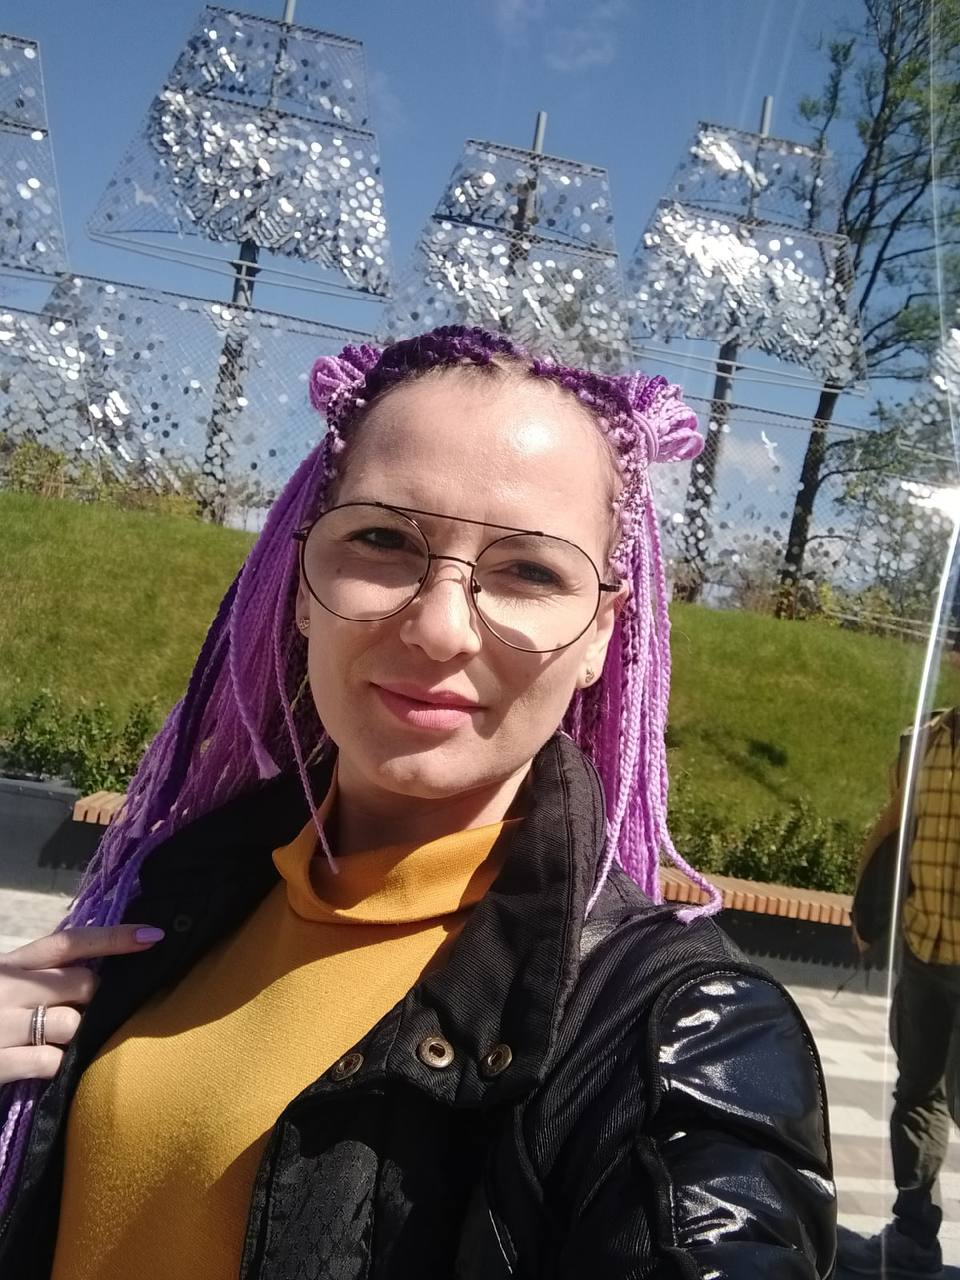
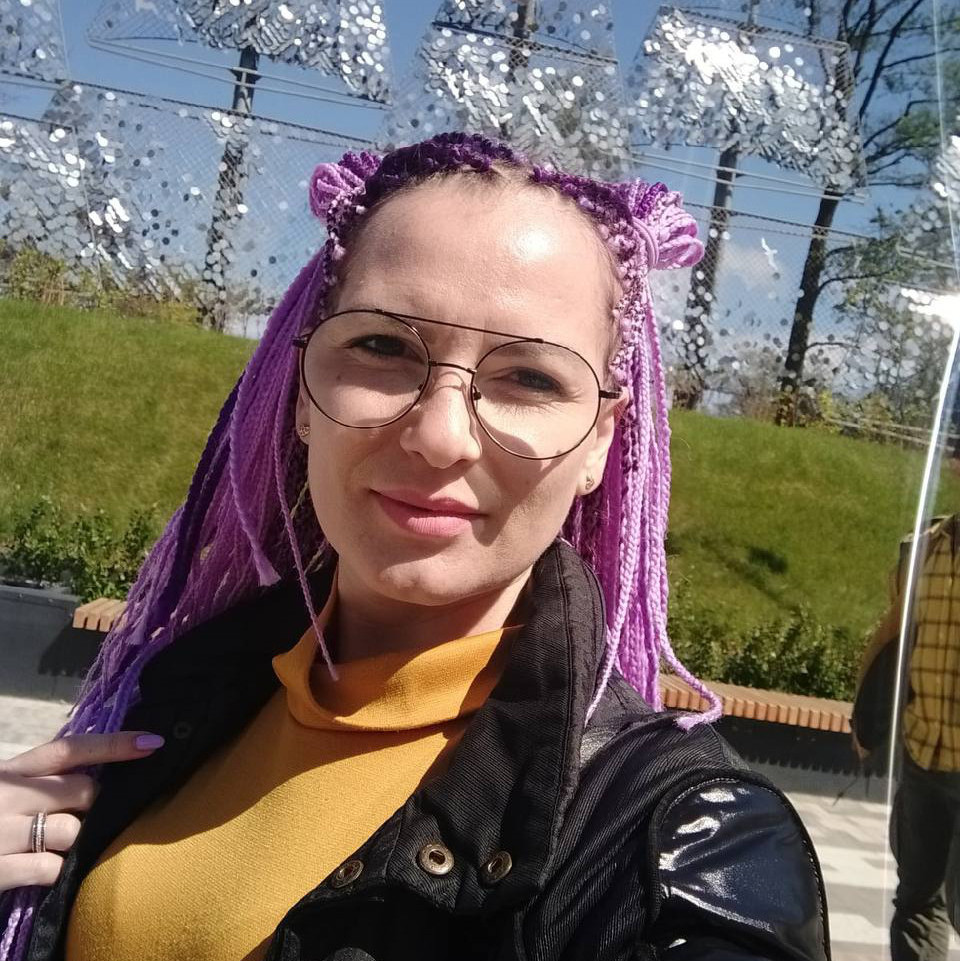
feat: add information about me

diff --git a/index.html b/index.html
@@ -34,11 +34,12 @@
     </header>
     <div class="container">
         <main class="main-container">
-            <div class="section" id="profile">
-
+            <div class="section" id="photo">
+                <img src="assets/img/my_photo.jpg" alt="my photo (Kate Volkova)" width="200" height="200">
             </div>
             <section class="section" id="profile">
                 <h1>Kate Volkova</h1>
+                <p>JS Developer</p>
             </section>
             <section class="section" id="summary">
                 <h2>Summary</h2>
@@ -48,33 +49,76 @@
             </section>
             <section class="section" id="contacts">
                 <h2>Contacts</h2>
-                <p>Phone: +7 987 654 32 10
-                    * E-mail: kittuvolk@gmail.com
-                    * GitHab: [KittuVolk](https://github.com/KittuVolk)
-                    * Telegram: https://tlgg.ru/Kittu_artano</p>
+                <ul>
+                    <li>Russia, Krasnodar</li>
+                    <li>E-mail: <a href="https://kittuvolk@gmail.com/">kittuvolk</a></li>
+                    <li>Telegram: <a href="https://tlgg.ru/Kittu_artano">Kittu_artano</a></li>
+                    <li>GitHub: <a href="https://github.com/KittuVolk">KittuVolk</a></li>
+                </ul>
             </section>
             <section class="section" id="skills">
                 <h2>Skills</h2>
+                <ul>
+                    <li>HTML5</li>
+                    <li>CSS3</li>
+                    <li>Git</li>
+                    <li>JavaScript Basics</li>
+                    <li>Figma, PhotoShop</li>
+                </ul>
             </section>
             <section class="section" id="code">
                 <h2>Code</h2>
+                <code>
+                   <pre> 
+<<span>div</span> class="container">
+<<span>main</span> class="main-container">
+<<span>div</span> class="section" id="photo">
+                   </pre>
+                  </code>
             </section>
             <section class="section" id="courses">
                 <h2>Courses</h2>
+                <ul>
+                    <li>On-line university Geek Brains
+                        <ul>
+                            <li> of Prodgect-manager</li>
+                        </ul>
+                    </li>
+                    <li>VS school JS/FE</li>
+                </ul>
             </section>
             <section class="section" id="projects">
                 <h2>Projects</h2>
             </section>
             <section class="section" id="education">
                 <h2>Education</h2>
+                <ul>
+                    <li>Art colledge in Kemerovo
+                        <ul>
+                            <li>Сeramics class</li>
+                        </ul>
+                    </li>
+                    <li>University of Culture and Arts
+                        <ul>
+                            <li>Faculty of Graphic Design</li>
+                        </ul>
+                    </li>
+
+                </ul>
             </section>
             <section class="section" id="english">
                 <h2>English</h2>
+                <ul>
+                    <li>A1 Elementary</li>
+                    <li>Russian natuve language </li>
+                </ul>
             </section>
         </main>
     </div>
     <footer>
-        <div class="container"></div>
+        <div class="container">
+            <p>2022</p>
+        </div>
     </footer>
 </body>
 

diff --git a/style.css b/style.css
@@ -1,3 +1,11 @@
+/* colors:  
+#776557 - main
+#fdefdd - light backgrount
+#ffd000 - yellow
+
+*/
+
+
 * {
     box-sizing: border-box;
     margin: 0;
@@ -9,20 +17,23 @@ body {
     flex-direction: column;
     justify-content: space-between;
     font-size: 18px;
-  font-weight: 400;
-  line-height: 1.5;
-  color: #776557;
+    font-weight: 400;
+    line-height: 1.5;
+    color: #776557;
+}
+a {
+    color: #ffd000;
 }
 header {
     background-color: #fdefdd;
 }
 .container {
-    max-width: 1440px;
+    max-width: 980px;
     margin: 0 auto;
   }
 .nav-list {
     display: flex;
-    justify-content: flex-end;
+    justify-content: center;
     align-items: center;
     list-style: none;
   }
@@ -45,12 +56,39 @@ header {
     flex-wrap: wrap;
   }
   .section {
-    width: 50%;
+    width: calc(50% - 40px);
+    border-bottom: 3px solid #ffd000;
+    margin: 0 auto 10px auto;
+    padding: 0 0 20px 0;
+
   }
+  .section li {
+    list-style-type: none;
+  }
+  #photo {
+      display: flex;
+      justify-content: center;
+  }
+  #photo img {
+      border-radius: 50%;
+      padding: 30px;
+      
+  }
+ #profile {
+     display: flex;
+     justify-content: center;
+     flex-direction: column;
+     text-align: center;
+ }
+#profile h1 {
+    border-bottom: 3px solid #ffd000;
+    width: 400px;
+    margin: 0 auto 8px auto;
+}
 
-
-
-
+footer {
+    background-color: #fdefdd;
+}
 
 
 
